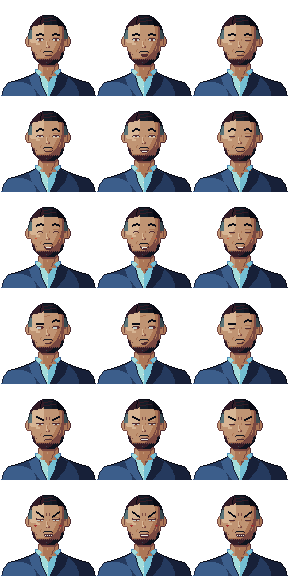
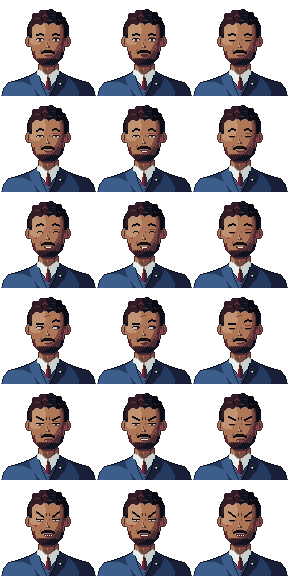
Ли Вэй и Эмре: новые портреты
Ли Вэй без телефона в руках: лицо уже, аккуратная стрижка с пробором, живые узкие глаза с карей радужкой,
рубашка цвета морской волны и стёганый жилет; сдержанные эмоции, рот по кадрам talk во всех шести.
Эмре — густые чёрные усы с короткой бородой, тёмные волнистые волосы, смуглая кожа, тройка с галстуком.

Changed region(s): [[0.4062, 0.0, 0.5938, 1.0], [0.0938, 0.0, 0.25, 1.0], [0.75, 0.0, 0.9062, 1.0]]

diff --git a/src/content/scenarios/china.ts b/src/content/scenarios/china.ts
@@ -49,7 +49,7 @@ export const china: Scenario = {
       name: 'Ли Вэй', role: 'хозяин магазина комплектующих', company: 'Yiwu Wei Parts, Иу', tone: 'friendly', portrait: 'china',
       bio: 'Тридцать восемь лет. Сам снимает товары для магазина на 1688, пакует образцы и отвечает в мессенджере. ' +
         'Русский выучил в разговорах с покупателями. Помнит артикулы лучше фамилий, улыбается, быстро считает на телефоне. ' +
-        'Яркая рубашка, жилет с карманами. Любит предложить ещё что-нибудь, но ясный отказ уважает. Его шутки — про собственный склад, а не про чужую речь.',
+        'Рубашка цвета морской волны, стёганый жилет с карманами. Любит предложить ещё что-нибудь, но ясный отказ уважает. Его шутки — про собственный склад, а не про чужую речь.',
       speech: CHINA_SPEECH,
       voiceExamples: ['Друг, хороший цена — это ещё не весь заказ.', 'Скидка дам. Вы количество скажите.', 'Гарантия есть. Сначала образец смотрим.', 'Быстро-быстро можно, только маршрут запишем.', 'Считаем, считаем. Телефон сегодня без обеда.', 'Не нужно — убираю. У меня склад большой, у вас другой задача.'],
       lines: {

diff --git a/tools/art/china.py b/tools/art/china.py
@@ -1,18 +1,19 @@
-"""Ли Вэй, 38: яркая рубашка, жилет с карманами, телефон в руке."""
+"""Ли Вэй, 38, магазин датчиков в Иу: аккуратная стрижка с пробором, рубашка цвета морской волны,
+тёмно-зелёный стёганый жилет с карманами. Говорит по видеосвязи, руки вне кадра."""
 import numpy as np
-from people import Face, SKIN_MID, builder
+from people import CX, MOUTH_M, Face, SKIN_MID, builder, paint_cloth, shirt_collar
 from pixel import band, ellipse_mask, grid, line, paint, poly_mask, put, shade_ellipsoid
 
-# Глаза уже, чем у общего набора: узкий миндаль, верхнее веко без складки, тёмная радужка почти во весь разрез,
-# внешний уголок на точку выше внутреннего. Левый глаз; правый зеркалим (кроме взгляда в сторону).
+# Глаза уже, чем у общего набора: миндаль без складки века, тёмная радужка почти во весь разрез, блик.
+# Левый глаз; правый зеркалим (кроме взгляда в сторону).
 EYES = {
-    'open':   ['........', '.LLLLL..', 'LwpppwLL', '..ppw...'],
-    'smile':  ['........', '.LLLLLL.', 'LwpppwLL', '.hhhhhh.'],
-    'narrow': ['........', '........', 'LLLLLLLL', '.wwppws.'],
-    'side':   ['........', '.LLLLL..', 'LwwwppLL', '....pp..'],
+    'open':   ['........', '.LLLLLL.', 'LwtppwLL', '.swpppw.'],
+    'smile':  ['........', '.LLLLLL.', 'LwtppwLL', '.hhhhhh.'],
+    'narrow': ['........', '........', 'LLLLLLLL', '.wtppws.'],
+    'side':   ['........', '.LLLLLL.', 'LwwwtppL', '.swwwpp.'],
     'closed': ['........', '........', 'LLLLLLL.', '..ssss..'],
-    'arc':    ['........', '.LLLL...', 'L....LL.', '........'],
-    'glare':  ['L.......', 'LLLLLLLL', '.wwppL..', '.ssssss.'],
+    'arc':    ['........', '.LLLLL..', 'L.....L.', '........'],
+    'glare':  ['L.......', '.LLLLLLL', '.wtppwL.', '..ssss..'],
 }
 EYE_STATE = {'neutral': 'open', 'pleased': 'smile', 'happy': 'arc', 'thinking': 'side', 'annoyed': 'narrow', 'angry': 'glare'}
 
@@ -23,50 +24,87 @@ def eyes(c, E, eyL, eyR, ey, emotion, frame):
     put(c, eyR, ey, EYES[st], E, flip=(st != 'side'))
 
 
-def spec():
-    face = Face(top=16, cy=38, rx=20, jaw_y=55, jaw_w=17, chin_y=65, chin_w=8, cheek=2.3)
+# Рот: в покое лёгкая улыбка, в кадре talk рот заметно открыт.
+MOUTHS = {
+    **MOUTH_M,
+    'neutral': ['.........', '.M.....M.', '..MMMMM..', '...kkk...'],
+    'pleased': ['M.......M', '.MtttttM.', '..MMMMM..'],
+    'happy':   ['M.......M', 'MMtttttMM', '.MMMMMMM.'],
+    'annoyed': ['.........', '.MMMMMMM.', 'M.......M'],
+    'angry':   ['.........', 'MMMMMMMMM', 'M.kkkkk.M'],
+}
+TALKS = {
+    'neutral': ['.M.....M.', '.MMMMMMM.', '.MoooooM.', '..MMMMM..'],
+    'pleased': ['M.......M', 'MMtttttMM', 'MoooooooM', '.MoooooM.', '..MMMMM..'],
+    'happy':   ['M.......M', 'MMtttttMM', 'MoooooooM', '.MoooooM.', '..MMMMM..'],
+    'thinking': ['.....MMM.', '..MMMooM.', '..MoooM..', '...MMM...'],
+    'annoyed': ['.........', '.MMMMMMM.', 'MtttttttM', '.MMMMMMM.'],
+    'angry':   ['.MMMMMMM.', 'MtttttttM', 'MoooooooM', '.MMMMMMM.'],
+}
 
-    def body(c, p, mask):
+
+def spec():
+    f = Face(top=17, cy=38, rx=18, jaw_y=55, jaw_w=14, chin_y=64, chin_w=6, jaw_p=1.7, cheek=2.0)
+    HAIR = [36, 37, 38, 39]
+    VEST = [6, 7, 7, 7]
+
+    def body(c, P, m):
         xs, ys = grid()
-        light = shade_ellipsoid(38, 94, 55, 30)
-        paint(c, mask, band(light, [0.3, 0.6, 0.9], [25, 26, 27, 28]))
-        # Рубашка в клетку, тёмный рабочий жилет.
-        paint(c, mask & ((xs % 9 == 0) | (ys % 9 == 0)), 21)
-        for points in ([(29, 73), (38, 71), (42, 96), (18, 96)], [(58, 71), (68, 74), (79, 96), (54, 96)]):
-            paint(c, poly_mask(points), 2)
-        line(c, [(39, 75), (44, 95)], 4)
-        line(c, [(57, 75), (53, 95)], 0)
-        put(c, 26, 83, ['aaaaaaaa', 'abbbbbba', 'abbbbbba', 'aaaaaaaa'], {'a': 0, 'b': 3})
-        for y in (80, 87, 94):
+        # рубашка цвета морской волны
+        paint_cloth(c, m, [2, 3, 3, 4])
+        # стёганый жилет: проймы открывают рукава рубашки, спереди вырез
+        vest = m & poly_mask([(10, 96), (20, 82), (30, 77), (38, 72), (48, 88), (58, 72), (66, 77), (76, 82), (86, 96)])
+        paint_cloth(c, vest, VEST, cuts=(0.25, 0.55, 0.9))
+        for y in range(80, 96, 5):
+            paint(c, vest & (np.abs(ys - y - 0.5) < 0.6), 6)
+        # молния и кант выреза
+        line(c, [(38, 72), (47, 88), (47, 95)], 6)
+        line(c, [(58, 72), (49, 88), (49, 95)], 6)
+        line(c, [(48, 89), (48, 95)], 42)
+        # карманы с клапанами
+        put(c, 29, 86, ['aaaaaa', 'bbbbbb'], {'a': 6, 'b': 8})
+        put(c, 61, 86, ['aaaaaa', 'bbbbbb'], {'a': 6, 'b': 7})
+        # пуговицы рубашки
+        for y in (79, 84):
             c[y, 48] = 45
 
-    def collar(c, p):
-        paint(c, poly_mask([(38, 70), (43, 70), (48, 79), (40, 76)]), 28)
-        paint(c, poly_mask([(53, 70), (58, 70), (55, 78), (49, 79)]), 26)
+    def collar(c, P):
+        shirt_collar(c, 9, 73, light=5, dark=4, edge=2)
 
-    def hair(c, p, emotion):
+    def hair(c, P, emotion):
         xs, ys = grid()
-        cap = ellipse_mask(48, 36, 21, 23)
-        edge = 24 + 2 * ((xs - 48) / 20) ** 2 + np.clip((xs - 44) / 8, 0, 2)
-        mask = cap & ((ys < edge) | ((abs(xs - 48) > 18) & (ys < 39)))
-        paint(c, mask, band(shade_ellipsoid(41, 22, 23, 19), [0.25, 0.65], [36, 37, 38]))
-        for points in ([(34, 22), (40, 18), (48, 17)], [(41, 22), (50, 19), (57, 20)]):
-            line(c, points, 39)
+        part = CX - 7
+        # аккуратная короткая стрижка: виски коротко, сверху объём, от пробора слева зачёс вправо-вверх
+        vol = ellipse_mask(CX + 1, f.cy - 6, f.rx + 2, 21, p=2.5)
+        hl = np.interp(xs, [27, 31, 35, part - 1, part + 1, 46, 54, 61, 65, 69],
+                       [33, 28, 25.5, 24.5, 24, 23.5, 23.5, 25, 28, 33])
+        top = vol & (ys < hl)
+        sides = ellipse_mask(CX, f.cy, f.rx + 1, 22) & (np.abs(xs - CX) > f.rx - 2) & (ys < P['ey'] - 1)
+        h = top | sides
+        sh = shade_ellipsoid(CX - 8, f.cy - 16, f.rx + 4, 22)
+        paint(c, h, 37)
+        paint(c, h & (sh < 0.3), 36)
+        paint(c, top & (sh > 0.75), 38)
+        # виски коротко — с проседью кожи, светлее
+        paint(c, sides & (ys > 27) & (np.abs(xs - CX) > f.rx - 1), 39)
+        # блик-прядь: дуга от пробора по объёму вправо
+        d = np.abs(ys - (16.5 + 0.035 * (xs - 47) ** 2))
+        paint(c, top & (d < 1.6) & (xs > part + 1) & (xs < 60), 39)
+        paint(c, top & (d < 0.7) & (xs > part + 3) & (xs < 54), 40)
+        paint(c, top & (d < 0.6) & (xs > 44) & (xs < 49), 41)
+        # вторая прядь ниже, у края чёлки
+        d2 = np.abs(ys - (21 + 0.03 * (xs - 50) ** 2))
+        paint(c, top & (d2 < 0.7) & (xs > part + 3) & (xs < 59), 39)
+        # слева от пробора — короче, прядь вниз к виску
+        d3 = np.abs(ys - (18 + 0.9 * (part - 2 - xs)))
+        paint(c, top & (d3 < 0.8) & (xs < part - 1) & (xs > 31), 39)
+        # пробор
+        line(c, [(part, 13), (part, 18), (part - 1, 23)], 36)
 
-    def extra(c, p, emotion):
-        # Телефон и пальцы поверх одежды; лицо остаётся открытым.
-        paint(c, poly_mask([(66, 92), (68, 81), (73, 79), (81, 87), (81, 96), (68, 96)]), p['skin'][2])
-        paint(c, poly_mask([(65, 68), (77, 66), (82, 87), (69, 90)]), 36)
-        paint(c, poly_mask([(67, 70), (75, 69), (79, 85), (71, 87)]), 4)
-        line(c, [(69, 73), (74, 72)], 45)
-        line(c, [(70, 77), (75, 76)], 22)
-        line(c, [(71, 81), (76, 80)], 45)
-        line(c, [(67, 84), (71, 82), (74, 84)], p['skin'][3], thick=3)
-        line(c, [(78, 86), (81, 87)], p['skin'][1], thick=2)
-
-    return dict(face=face, skin=SKIN_MID, ey=38, age=38, female=False, neck=9,
-                nose='small', shoulders=42, brow=(37, 1), brow_dy=1, pupil=37, eyes=eyes,
-                body=body, collar=collar, hair=hair, extra=extra, forehead=False)
+    return dict(face=f, skin=SKIN_MID, ey=38, age=38, female=False, neck=8,
+                nose='small', shoulders=40, brow=(36, 2), brow_dy=0, pupil=18, lash=36, eyes=eyes,
+                body=body, collar=collar, hair=hair, forehead=False, mouths=(MOUTHS, TALKS),
+                cuts=[0.08, 0.3, 0.88], blush=28, dark={38: 36, 39: 37})
 
 
 build = builder(spec)

diff --git a/tools/art/people.py b/tools/art/people.py
@@ -603,89 +603,94 @@ def buyer():
 
 
 def emre():
-    """Эмре Кая, ~42, экспорт из Стамбула: оливковая кожа, короткие тёмные волосы с сединой на висках,
-    аккуратная короткая борода, голубая рубашка с расстёгнутым воротом, тёмно-синий пиджак."""
+    """Эмре Кая, ~42, экспорт из Стамбула: смуглая кожа, густые тёмные волнистые волосы, густые усы
+    и короткая борода, тёмно-синяя тройка, белая рубашка, винный галстук."""
     f = Face(top=17, cy=38, rx=18, jaw_y=56, jaw_w=15, chin_y=64, chin_w=7, jaw_p=2.0, cheek=2.2)
-    HAIR = [36, 37, 38, 18]
-    BEARD = [37, 18, 18]
 
     def body(c, P, m):
         xs, ys = grid()
         paint_cloth(c, m, [0, 1, 1, 2])
-        # голубая рубашка клином, ворот расстёгнут: в вырезе видна кожа
+        # рубашка и жилет в вырезе пиджака
         shirt = poly_mask([(38, 70), (58, 70), (55, 84), (48, 96), (41, 84)])
-        paint(c, shirt, 5)
-        paint(c, shirt & (xs > 49), 4)
-        skin = poly_mask([(43, 70), (53, 70), (51, 77), (48, 81), (45, 77)])
-        paint(c, skin, P['skin'][1])
-        paint(c, skin & (xs > 49), P['skin'][0])
-        line(c, [(48, 82), (48, 96)], 4)
-        c[86, 47] = 45
-        c[92, 47] = 45
+        paint(c, shirt, 45)
+        paint(c, shirt & (xs > 49), 44)
+        vest = shirt & poly_mask([(38, 79), (48, 90), (58, 79), (58, 96), (38, 96)])
+        paint(c, vest, 2)
+        paint(c, vest & (xs > 48), 1)
+        line(c, [(41, 81), (48, 89)], 0)
+        line(c, [(55, 81), (48, 89)], 0)
+        c[91, 48] = 42
+        c[94, 48] = 41
+        # галстук: узел и полоса до жилета
+        tie = poly_mask([(46, 75), (50, 75), (49, 78), (51, 88), (48, 90), (45, 88), (47, 78)])
+        paint(c, tie, 25)
+        paint(c, tie & (xs < 48), 26)
+        line(c, [(47, 78), (49, 78)], 24)
         # лацканы
         lap_l = poly_mask([(38, 71), (41, 84), (47, 96), (41, 96), (32, 86), (29, 77)])
         lap_r = poly_mask([(58, 71), (55, 84), (49, 96), (55, 96), (64, 86), (67, 77)])
         paint(c, lap_l, 2)
         paint(c, lap_r, 0)
         line(c, [(38, 71), (41, 84), (46, 95)], 0)
-        line(c, [(58, 71), (55, 84), (50, 95)], 0)
-        # нагрудный карман
-        line(c, [(58, 84), (63, 84)], 0)
+        line(c, [(58, 71), (55, 84), (50, 95)], 36)
+        # платок в нагрудном кармане
+        line(c, [(58, 85), (63, 84)], 36)
+        put(c, 59, 83, ['ww.', '.w'], {'w': 44})
 
     def collar(c, P):
-        # уголки воротника лежат поверх лацканов, ворот раскрыт
-        put(c, 35, 69, ['aaa.....', 'aaaaa...', 'aaaaaa..', '.aaaaab.', '..aaab..', '...ab...', '....b...'], {'a': 5, 'b': 4})
-        put(c, 53, 69, ['.....aaa', '...aaaaa', '..aaaaaa', '.baaaaa.', '..baaa..', '...ba...', '...b....'], {'a': 4, 'b': 3})
+        shirt_collar(c, 9, 74)
+
+    def back(c, P):
+        # объём волос за головой
+        paint(c, ellipse_mask(CX, f.cy - 5, f.rx + 3.5, 21), 37)
 
     def hair(c, P, emotion):
         xs, ys = grid()
-        vol = ellipse_mask(CX, f.cy - 1, f.rx + 1.8, 22.5)
         u = (xs - CX) / f.rx
-        # короткая стрижка, пробор слева, лоб открыт
-        hl = 24.5 + 3 * u ** 2 - 1.2 * (u > -0.35) * (u < -0.2)
+        # густые волнистые волосы, зачёс назад-вбок с волной над лбом; уши открыты
+        vol = ellipse_mask(CX + 0.5, f.cy - 6, f.rx + 3, 22)
+        for bx, by, r in ((36, 16, 4), (43, 13.5, 4.5), (51, 13, 4.5), (58, 15, 4), (63, 20, 3.5)):
+            vol |= ellipse_mask(bx, by, r, r * 0.85)
+        hl = 23.5 + 3.2 * u ** 2 + 1.1 * np.sin((xs - 30) * 0.75)
         top = vol & (ys < hl)
-        sides = vol & (np.abs(xs - CX) > f.rx - 2) & (ys < P['ey'] + 1)
+        sides = ellipse_mask(CX, f.cy - 2, f.rx + 1.5, 22) & (np.abs(xs - CX) > f.rx - 2) & (ys < P['ey'])
         h = top | sides
-        paint(c, h, band(shade_ellipsoid(CX - 5, f.cy - 12, f.rx + 2, 22), [0.25, 0.55, 0.85], HAIR))
-        # пробор и пряди назад
-        line(c, [(41, 17), (40, 23)], 36)
-        for pts in ([(43, 18), (52, 17)], [(44, 21), (55, 20)], [(34, 22), (38, 18)]):
-            line(c, pts, 18)
-        # седина на висках: светлее со стороны света, сверху переход точками
-        temple = h & (np.abs(xs - CX) > f.rx - 3) & (ys >= 30)
-        paint(c, temple & (xs < CX), 41)
-        paint(c, temple & (xs > CX), 40)
-        for y, x in ((28, 31), (29, 30), (28, 65), (29, 66)):
-            if h[y, x]:
-                c[y, x] = 40
+        sh = shade_ellipsoid(CX - 7, f.cy - 16, f.rx + 4, 22)
+        paint(c, h, 37)
+        paint(c, h & (sh < 0.28), 36)
+        paint(c, h & (sh > 0.7), 18)
+        # волны: дуги-блики прядей
+        for x0, y0, w, col in ((35, 18, 5, 19), (42, 15, 6, 19), (51, 15, 5, 18), (38, 22, 5, 18), (47, 20, 5, 19),
+                               (56, 20, 5, 18), (32, 25, 3, 18), (61, 25, 3, 18)):
+            d = np.abs(ys - (y0 + 0.18 * (xs - x0 - w / 2) ** 2))
+            paint(c, h & (d < 0.6) & (xs >= x0) & (xs <= x0 + w), col)
+        # тень между волнами
+        for pts in ([(41, 17), (42, 20)], [(49, 16), (50, 19)], [(56, 17), (57, 20)]):
+            line(c, pts, 36)
 
     def beard(c, P, emotion):
         xs, ys = grid()
         face = f.mask()
         ey = P['ey']
-        # короткая ухоженная борода по линии челюсти, щёки чистые
-        b = face & (ys > ey + 14) & ((np.abs(xs - CX) > f.hw(ys) - 2.5) | (ys > ey + 21))
-        b &= ~((ys < ey + 21) & (np.abs(xs - CX) < 6))
-        paint(c, b, band(shade_ellipsoid(CX - 4, 58, 18, 10), [0.4, 0.75], BEARD))
-        # верхний край бороды — щетина, не жёсткая линия
+        S = P['skin']
+        # короткая ухоженная борода по челюсти и подбородку
+        b = face & (ys > ey + 13) & ((np.abs(xs - CX) > f.hw(ys) - 3) | (ys > ey + 20))
+        b &= ~((ys < ey + 20) & (np.abs(xs - CX) < 6))
+        lit = shade_ellipsoid(CX - 6, 56, 16, 10)
+        paint(c, b, band(lit, [0.35, 0.8], [37, 18, 19]))
+        # верхний край мягкий
         edge = b & ~shift(b, 0, 1)
-        paint(c, edge & ((xs + ys) % 2 == 0), 13)
-        # щетина точками на щеке
-        for x, y in ((32, ey + 13), (34, ey + 14), (62, ey + 13), (60, ey + 14), (36, ey + 16), (59, ey + 16)):
-            if face[y, x]:
-                c[y, x] = 13
-        # чуть седины в бороде
-        for x, y in ((39, 59), (56, 58), (46, 62)):
-            if b[y, x]:
-                c[y, x] = 40
+        paint(c, edge & ((xs + ys) % 2 == 1), S[1])
 
     def moustache(c, P, emotion):
         ey = P['ey']
-        put(c, CX - 5, ey + 13, ['.gggggggg.', 'G........G'], {'g': 37, 'G': 18})
+        # густые усы над губой, кончики чуть вниз — за краями рта
+        put(c, CX - 7, ey + 12, ['...GGGGGGGG...', '.GGggggggggGG.', 'GGGGGGGGGGGGGG', 'GG..........GG'],
+            {'G': 36, 'g': 37})
 
-    return dict(face=f, skin=SKIN_MID, ey=38, age=42, female=False, neck=9, nose='straight', shoulders=40,
-                brow=(36, 2), pupil=19, body=body, collar=collar, hair=hair, beard=beard, moustache=moustache,
-                blush=28, mouth_y=38 + 16, cuts=[0.1, 0.32, 0.88])
+    return dict(face=f, skin=SKIN_DARK, ey=38, age=42, female=False, neck=9, nose='straight', shoulders=40,
+                brow=(36, 2), pupil=18, lash=36, body=body, collar=collar, back=back, hair=hair, beard=beard,
+                moustache=moustache, blush=27, mouth_y=38 + 16, cuts=[0.04, 0.25, 0.85])
 
 
 SPECS = {'foreman': foreman, 'dev': dev, 'official': official, 'hr': hr, 'realtor': realtor, 'buyer': buyer,
